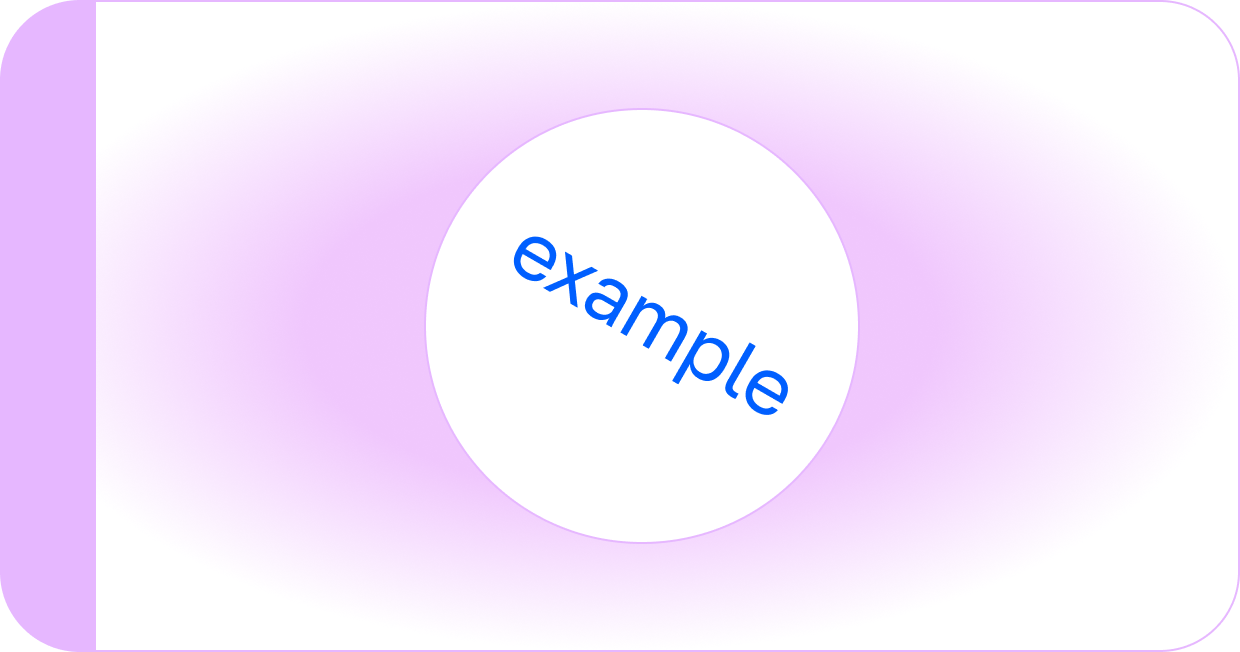
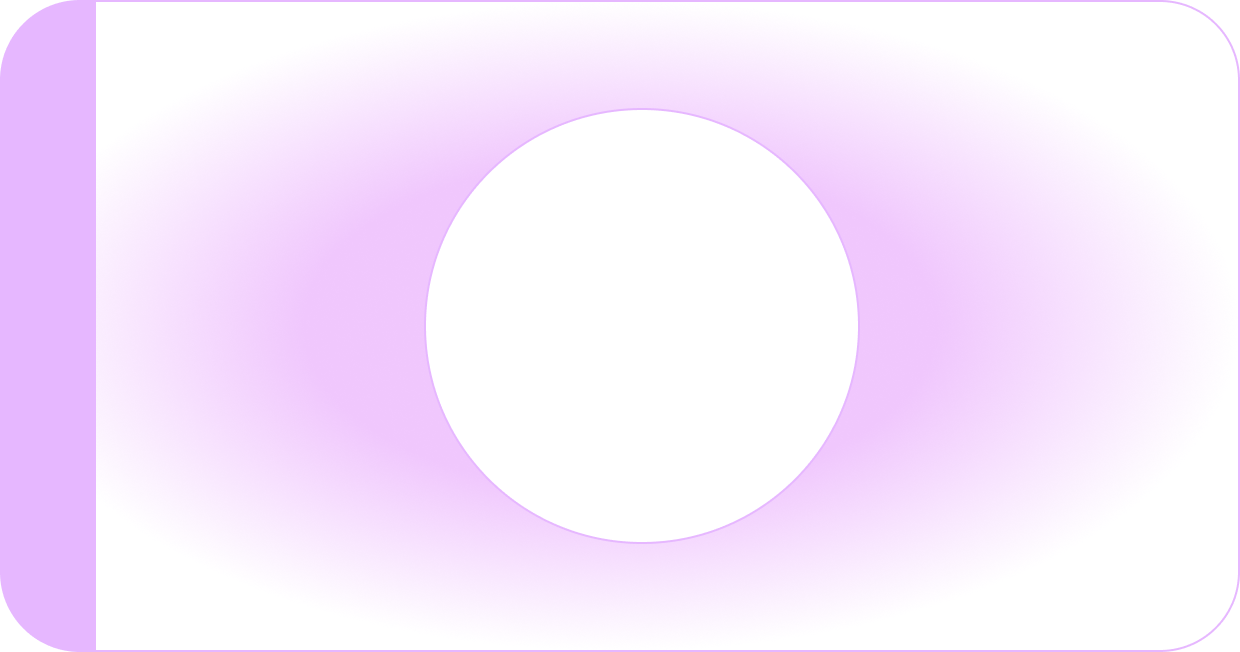
small fixes

Changed region(s): [[0.3984, 0.3681, 0.6435, 0.6442]]

diff --git a/components/CenterGraphic.jsx b/components/CenterGraphic.jsx
@@ -2,7 +2,6 @@
 
 import { motion, useTransform } from 'framer-motion';
 import { useMemo } from 'react';
-import Link from 'next/link';
 import Image from 'next/image';
 import * as flubber from 'flubber';
 import styles from './CentralGraphic.module.css';
@@ -45,7 +44,7 @@ export default function CentralGraphic({ scrollYProgress }) {
   // Initial hollow circle visibility (State 1)
   const hollowCircleOpacity = useTransform(
     scrollYProgress,
-    [0, 0.15, 0.2],
+    [0, 0.15, 0.9],
     [1, 1, 0],
   );
 
@@ -53,15 +52,27 @@ export default function CentralGraphic({ scrollYProgress }) {
   const shapesOpacity = useTransform(scrollYProgress, [0.15, 0.25], [0, 1]);
 
   // blur timeline (for later stages) - only after icons have fully appeared
-  const filter = useTransform(
-    useTransform(scrollYProgress, [0.95, 1], [0, 20]),
-    (v) => `blur(${v}px)`,
-  );
+  // const filter = useTransform(
+  //   useTransform(scrollYProgress, [0.95, 1], [0, 20]),
+  //   (v) => `blur(${v}px)`,
+  // );
 
   // text inside starting shapes
   const stageTextOpacity = useTransform(
     scrollYProgress,
-    [0.35, 0.4, 0.6, 0.75],
+     [0.15, 0.25, 0.6, 0.7],
+    [0, 1, 1, 0],
+  );
+
+    const stageTextOpacity2 = useTransform(
+    scrollYProgress,
+    [0.25, 0.35, 0.6, 0.7],
+    [0, 1, 1, 0],
+  );
+
+    const stageTextOpacity3 = useTransform(
+    scrollYProgress,
+    [0.35, 0.45, 0.6, 0.7],
     [0, 1, 1, 0],
   );
 
@@ -226,7 +237,7 @@ export default function CentralGraphic({ scrollYProgress }) {
                 >
                   <motion.div
                     style={{
-                      opacity: stageTextOpacity,
+                      opacity: stageTextOpacity3,
                       display: 'grid',
                       placeItems: 'center',
                       width: '100%',
@@ -262,7 +273,7 @@ export default function CentralGraphic({ scrollYProgress }) {
                 >
                   <motion.div
                     style={{
-                      opacity: stageTextOpacity,
+                      opacity: stageTextOpacity2,
                       display: 'grid',
                       placeItems: 'center',
                       width: '100%',
@@ -290,7 +301,6 @@ export default function CentralGraphic({ scrollYProgress }) {
       {/* VENN LABELS — blurred, below final text */}
       <motion.div
         style={{
-          filter,
           width: CANVAS,
           height: CANVAS,
           position: 'absolute',
@@ -392,33 +402,6 @@ export default function CentralGraphic({ scrollYProgress }) {
           );
         })}
       </div>
-
-      {/* FINAL TEXT — centred & above everything */}
-      <motion.div
-        className={styles.blurOverlayText}
-        style={{
-          opacity: finalTextOpacity,
-          position: 'absolute',
-          top: '65%',
-          left: '50%',
-          transform: 'translate(-50%, -50%)',
-          textAlign: 'center',
-          zIndex: 2, // <— above the blurred Venn
-          maxWidth: '80%',
-          color: 'white',
-          fontSize: '1.2rem',
-          fontWeight: 600,
-          textShadow: '2px 2px 4px rgba(0,0,0,0.8)',
-        }}
-      >
-        <Link
-          href="/overview/system-guide?layer=deep-code-shift"
-          className={styles.deepCodeLink}
-          style={{ color: 'white', textDecoration: 'underline' }}
-        >
-          find out more about deep codes →
-        </Link>
-      </motion.div>
     </motion.div>
   );
 }

diff --git a/components/BackButton.jsx b/components/BackButton.jsx
@@ -1,0 +1,9 @@
+'use client';
+import { useRouter } from 'next/navigation';
+
+export default  function BackButton() {
+  const router = useRouter();
+  return(<button className={'text-small ml-40 font-bold text-blue-800 hover:cursor-pointer'} onClick={() => router.back()}>
+            ← BACK
+          </button>)
+};

diff --git a/app/(front-end)/globals.css b/app/(front-end)/globals.css
@@ -91,6 +91,14 @@
   @apply shadow-[0_5px_5px_rgba(0,95,255,0.25)];
 }
 
+.shadow-border {
+  box-shadow: 0 0 20px 0 #005FFF inset;
+}
+
+.shadow-hover {
+  box-shadow: 0 0 40px 0 rgba(0, 95, 255, 0.60);
+}
+
 .loader {
   width: 48px;
   height: 48px;

diff --git a/app/(front-end)/tools/[slug]/page.jsx b/app/(front-end)/tools/[slug]/page.jsx
@@ -1,7 +1,7 @@
 import { notFound } from 'next/navigation';
-import Link from 'next/link';
 import { sanityFetch } from '@/sanity/lib/client';
 import { Navbar } from '@/components/Navbar';
+import BackButton from '@/components/BackButton';
 import Footer from '@/components/Footer';
 import ToolDetail from '@/components/ToolDetail';
 import InsightCard from '@/components/InsightCard';
@@ -34,9 +34,7 @@ export default async function SpecificToolPage({ params }) {
       <Navbar activePage="Tools & Examples" />
       <main>
         <div className={styles.hero}>
-          <button className={'text-small ml-40 font-bold text-blue-800'}>
-            <Link href="/tools">← BACK</Link>
-          </button>
+          <BackButton />
         </div>
         <div className="section-shadow">
           <div className={'pb-8 ' + styles.contentWrapper}>

diff --git a/components/HoverInfo.jsx b/components/HoverInfo.jsx
@@ -4,11 +4,6 @@ import { useState } from 'react';
 import { motion, AnimatePresence } from 'framer-motion';
 import styles from './HoverInfo.module.css';
 
-/**
- * A component that displays a '?' icon. On hover, it shows a tooltip with more information.
- * @param {{children: React.ReactNode}} props - The props for the component.
- * @param {React.ReactNode} props.children - The content to display inside the tooltip box.
- */
 export default function HoverInfo({ children }) {
   const [isHovering, setIsHovering] = useState(false);
 

diff --git a/components/CardGrid.jsx b/components/CardGrid.jsx
@@ -61,7 +61,7 @@ const cardData = [
       'Here you will find an overview of the Many-to-Many System in it’s entirety and a downloadable Field Guide that supports governance practitioners.',
     buttonText: 'Delve into the System',
     url: '/overview',
-    gradient: 'bg-gradient-to-b from-white to-[#FA691A]',
+    gradient: 'bg-gradient-to-b from-[#FA691A] to-white',
   },
   {
     title: 'Tools, Case Studies and Examples',
@@ -93,7 +93,7 @@ const cardData = [
       'Explore the journey of how this system was created and the partners involved.',
     buttonText: 'Learn about the journey',
     url: '/journey',
-    gradient: 'bg-gradient-to-t from-yellow-300 to-orange-300',
+    gradient: 'bg-gradient-to-t from-orange-300 to-white',
   },
   {
     title: 'Many-to-Many Legal Architecture',

diff --git a/components/interactive-guide/GuideDetailView.jsx b/components/interactive-guide/GuideDetailView.jsx
@@ -29,7 +29,7 @@ export default function GuideDetailView({
   onNavClick,
 }) {
   return (
-    <>
+    <div className="">
       <div className="sticky top-0 bg-white">
         <div className={'flex flex-row items-center justify-between'}>
           <h1 className="heading-lg text-blue-800">Interactive Overview </h1>
@@ -159,6 +159,6 @@ export default function GuideDetailView({
           </motion.div>
         </div>
       </div>
-    </>
+    </div>
   );
 }

diff --git a/app/(front-end)/problems/[slug]/page.jsx b/app/(front-end)/problems/[slug]/page.jsx
@@ -3,8 +3,6 @@ import Link from 'next/link';
 import { sanityFetch } from '@/sanity/lib/client';
 import { Navbar } from '@/components/Navbar';
 import Footer from '@/components/Footer';
-import DetailHero from '@/components/DetailHero';
-import Accordion from '@/components/Accordion';
 import InsightCard from '@/components/InsightCard';
 import ToolCard from '@/components/ToolCard';
 import styles from './specific-problem.module.css';

diff --git a/components/AnimatedTitle.jsx b/components/AnimatedTitle.jsx
@@ -27,7 +27,7 @@ export default function AnimatedTitle({ scrollYProgress }) {
   const introTextOpacity = useTransform(scrollYProgress, [0.75, 0.9], [0, 1]);
 
   const title3Opacity = useTransform(scrollYProgress, [0.75, 0.9], [0, 1]);
-  const title3Y = useTransform(scrollYProgress, [0.65, 0.7], [20, 0]);
+  const title3Y = useTransform(scrollYProgress, [0.85, 0.9], [20, 0]);
 
   return (
     <div className={'font-galosText ' + styles.titleContainer}>

diff --git a/components/SideText.jsx b/components/SideText.jsx
@@ -30,7 +30,7 @@ export default function SideText({ scrollYProgress }) {
   );
 
   // State 5: Final paragraph appears, previous fades out
-  const state5Opacity = useTransform(scrollYProgress, [0.75, 0.9], [0, 1]);
+  const state5Opacity = useTransform(scrollYProgress, [0.85, 0.9], [0, 1]);
 
   return (
     <>

diff --git a/components/interactive-guide/GuideOverview.jsx b/components/interactive-guide/GuideOverview.jsx
@@ -22,7 +22,7 @@ export default function GuideOverview({ data, onSelect }) {
         {data.map((item, index) => (
           <button
             key={item._id}
-            className={'opacity-80 hover:opacity-100 ' + styles.selectionItem}
+            className={'opacity-80 ' + styles.selectionItem}
             onClick={() => onSelect(index)}
           >
             <Image

diff --git a/components/interactive-guide/InteractiveGuide.jsx b/components/interactive-guide/InteractiveGuide.jsx
@@ -95,7 +95,7 @@ export default function InteractiveGuide({ layers }) {
   };
 
   return (
-    <div className={`${styles.container} font-galosText grid-bg`}>
+    <div className={`${styles.container} font-galosText grid-bg shadow-border p-2`}>
       <AnimatePresence mode="wait" initial={false} custom={direction}>
         {activeIndex === null ? (
           <motion.div